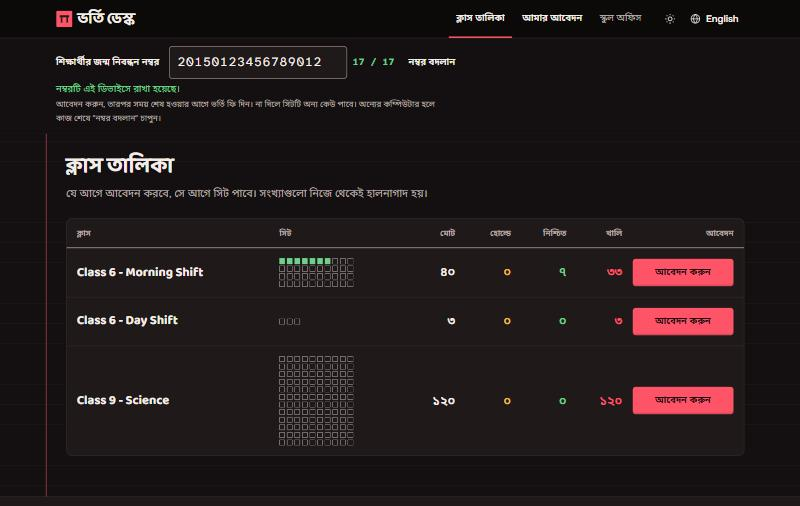
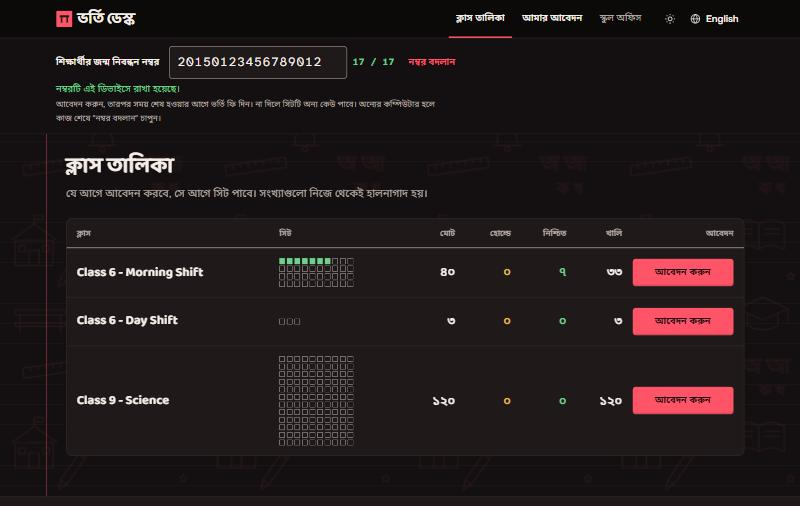
Add school doodles to the page background

diff --git a/frontend/src/styles/global.css b/frontend/src/styles/global.css
@@ -131,10 +131,29 @@
 /* ---------------------------------------------------------------- app frame */
 
 .app {
+  position: relative;
+  isolation: isolate;
   min-height: 100vh;
   min-height: 100dvh;
   display: flex;
   flex-direction: column;
+}
+
+/* School doodles behind everything: a building, a bench, books, a bell and Bangla
+   letters, drawn in one SVG and used as a mask so the colour follows the theme. */
+.app::before {
+  content: "";
+  position: fixed;
+  inset: 0;
+  z-index: -1;
+  pointer-events: none;
+  background-color: var(--doodle);
+  -webkit-mask-image: url("/school-doodles.svg");
+  mask-image: url("/school-doodles.svg");
+  -webkit-mask-size: 320px 320px;
+  mask-size: 320px 320px;
+  -webkit-mask-repeat: repeat;
+  mask-repeat: repeat;
 }
 
 .main {

diff --git a/frontend/src/styles/tokens.css b/frontend/src/styles/tokens.css
@@ -6,6 +6,7 @@
   /* 60%: clean warm white for pages and cards. */
   --paper: #faf7f2;
   --paper-line: #f1ebe2;
+  --doodle: rgb(215 38 61 / 0.09);
   --sheet: #ffffff;
   --rule: #e7dfd4;
   --margin-line: #d7263d;
@@ -66,6 +67,7 @@
   color-scheme: dark;
   --paper: #141011;
   --paper-line: #1a1516;
+  --doodle: rgb(255 84 104 / 0.08);
   --sheet: #1f191a;
   --rule: #352c2d;
   --margin-line: #ff5468;
